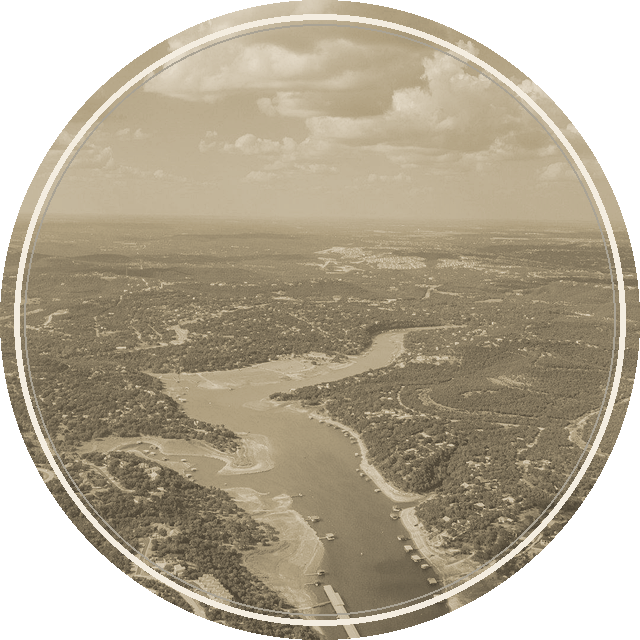
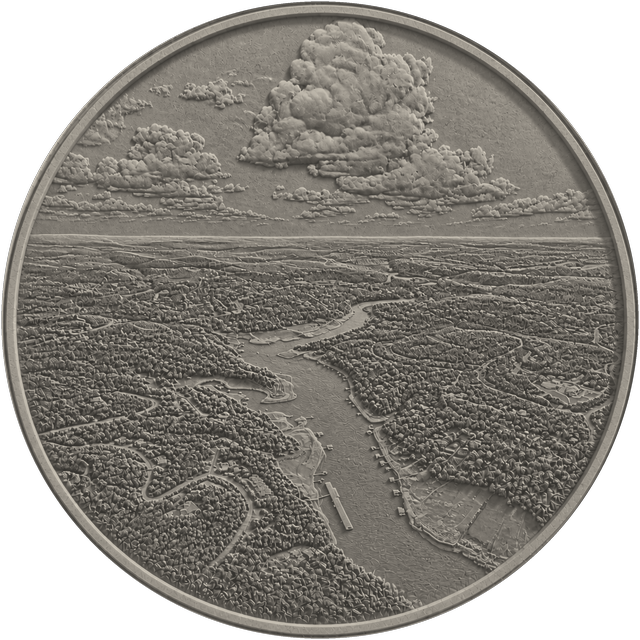
Hub: carved charcoal medallions for all five tiles, matched to Live Oak palette
Claude-Session: https://claude.ai/code/session_015J6iApa9WrwJvaKsp7da1Z

diff --git a/index.html b/index.html
@@ -3216,7 +3216,7 @@
       <div class="hub-grid">
         <button type="button" class="hub-card" data-target="admin">
           <div class="hub-avatar" data-slug="admin">
-            <img src="assets/icon-arch-transparent.png" alt="" onerror="this.style.display='none';" />
+            <img src="assets/hub/admin.png" alt="" onerror="this.style.display='none';" />
             <span class="hub-initial">A</span>
           </div>
           <div class="hub-name">Admin</div>
@@ -3224,7 +3224,7 @@
         </button>
         <button type="button" class="hub-card" data-target="telos">
           <div class="hub-avatar" data-slug="telos">
-            <img src="assets/hub/telos.svg" alt="" onerror="this.style.display='none';" />
+            <img src="assets/hub/telos.png" alt="" onerror="this.style.display='none';" />
             <span class="hub-initial">A</span>
           </div>
           <div class="hub-name">Telos</div>
@@ -3232,7 +3232,7 @@
         </button>
         <button type="button" class="hub-card" data-target="liveoak">
           <div class="hub-avatar" data-slug="liveoak">
-            <img src="assets/hub/liveoak.webp" alt="" onerror="this.style.display='none';" />
+            <img src="assets/hub/liveoak.png" alt="" onerror="this.style.display='none';" />
             <span class="hub-initial">L</span>
           </div>
           <div class="hub-name">Live Oak Reserve</div>

diff --git a/assets/vfv-brand.css b/assets/vfv-brand.css
@@ -9,9 +9,8 @@ body { font-family: 'Montserrat', 'Helvetica Neue', Arial, sans-serif; }
 
 /* Hub marks */
 .hub-avatar img[src*="assets/hub/"] { object-fit:contain; }
-.hub-avatar[data-slug="liveoak"] img, .hub-avatar[data-slug="land"] img, .hub-avatar[data-slug="marketintel"] img { padding:0 !important; object-fit:cover !important; }
-.hub-avatar[data-slug="telos"] img { padding:40px !important; }
-@media (max-width:640px){ .hub-avatar[data-slug="telos"] img { padding:28px !important; } }
+.hub-avatar img[src*="assets/hub/"] { padding:0 !important; object-fit:cover !important; }
+.hub-avatar { background:#7C7870; border-color:#5a5750; }
 
 /* Phone menu button (injected by vfv-mobile.js) */
 .vfv-menu-btn { display:none; font-family:'Montserrat',sans-serif; font-size:10px; letter-spacing:.22em; text-transform:uppercase; background:transparent; border:1px solid #d9d0bf; color:#111; padding:8px 12px; cursor:pointer; }
